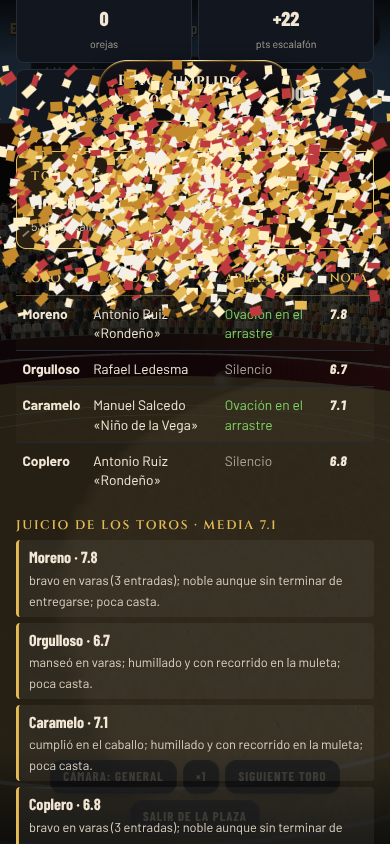
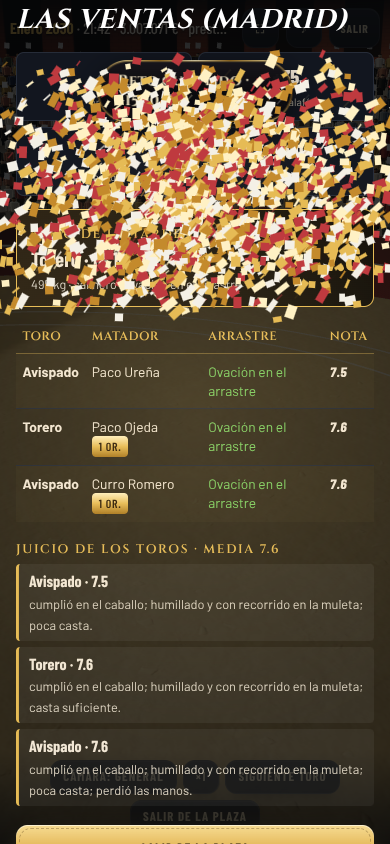
Plaza en directo: estocada animada y corridas distintas
Claude-Session: https://claude.ai/code/session_01UEz6UKm7eRVhhfCF1Qj26a

diff --git a/ruedo.html b/ruedo.html
@@ -258,6 +258,14 @@ const SU={
   handY:p=>.96-.1*smooth(.15,.4,p)},
  pecho:{name:'Pase de pecho',tool:'muleta',single:true,lead:.4,track:[[.6,1.35],[.05,1.1],[-.8,1.3],[-1.7,2.05],[-2.4,3.2],[-2.8,4.6],[-2.9,5.8]],
   handY:p=>.95+.62*smooth(.25,.75,p)}};
+Object.assign(SU,{
+ delantal:{name:'Delantal',tool:'capote',alt:true,remate:'media',lead:.5,track:SU.veronica.track,handY:p=>.98-.12*smooth(.15,.42,p)+.1*smooth(.62,.85,p)},
+ tafallera:{name:'Tafallera',tool:'capote',alt:true,remate:'media',lead:.45,spin:true,track:SU.chicuelina.track,handY:p=>1.24-.1*smooth(.15,.4,p)},
+ revolera:{name:'Revolera',tool:'capote',single:true,lead:.4,gather:true,spin:true,track:SU.media.track,handY:p=>1.15-.1*smooth(.15,.45,p)},
+ manoletina:{name:'Manoletina',tool:'muleta',hand:'R',side:-1,remate:'pecho',lead:.45,track:SU.derechazo.track,handY:p=>1.3+.06*smooth(.2,.6,p)},
+ molinete:{name:'Molinete',tool:'muleta',single:true,lead:.4,spin:true,track:SU.pecho.track,handY:p=>.92+.2*smooth(.25,.75,p)},
+ trincherazo:{name:'Trincherazo',tool:'muleta',single:true,lead:.4,track:SU.pecho.track,handY:p=>.7-.12*smooth(.2,.6,p)},
+ firma:{name:'Pase de la firma',tool:'muleta',single:true,lead:.4,track:SU.pecho.track,handY:p=>.62+.1*smooth(.3,.8,p)}});
 const SUERTE_OPTS=[{id:'faena',name:'Faena completa'},{id:'veronica',name:'Verónicas'},{id:'chicuelina',name:'Chicuelinas'},{id:'media',name:'Media verónica'},{id:'derechazo',name:'Derechazos'},{id:'natural',name:'Naturales'},{id:'pecho',name:'Pase de pecho'}];
 const CAMS=[{id:'cine',name:'Director'},{id:'libre',name:'Libre'},{id:'tendido',name:'Tendido'},{id:'callejon',name:'Callejón'},{id:'raso',name:'Ras de arena'},{id:'torero',name:'Torero'},{id:'toro',name:'Toro'},{id:'cenital',name:'Cenital'}];
 const SPEEDS=[{id:.1,name:'0,1×'},{id:.25,name:'0,25×'},{id:.5,name:'0,5×'},{id:1,name:'1×'},{id:1.5,name:'1,5×'},{id:2,name:'2×'},{id:0,name:'Pausa'},{id:'slow',name:'Lenta en el embroque'}];
@@ -396,7 +404,7 @@ function buildPlaza(){
  lamps=new THREE.Group();const lm=new THREE.MeshBasicMaterial({color:col('#fff6e4')});
  for(let i=0;i<16;i++){const a=i/16*TAU;const b=new THREE.Mesh(new THREE.BoxGeometry(1.4,.5,.2),lm);b.position.set(Math.cos(a)*(r+.6),yg+8.6,Math.sin(a)*(r+.6));b.lookAt(0,0,0);lamps.add(b);}
  lamps.visible=false;scene.add(lamps);
- plaza.rTop=r;
+ plaza.rTop=r;plaza.sand=sandMat;plaza.wood=woodMat;
 }
 const plaza={};
 
@@ -420,7 +428,7 @@ function buildCrowd(){lMsg.textContent='Llenando los tendidos';const r=rng(9);
   const sol=Math.cos(a-SUN_AZ)<0;if(sol&&r()<.28)hats.push(o.matrix.clone());});
  bodies.receiveShadow=heads.receiveShadow=true;scene.add(bodies,heads);
  const hm=new THREE.InstancedMesh(hatG,crowdMat(),hats.length);hats.forEach((m,i)=>{hm.setMatrixAt(i,m);hm.setColorAt(i,c.copy(col(r()<.7?'#d9c48e':'#f2eee4')));});hm.receiveShadow=true;scene.add(hm);
- crowd={bodies,heads,hm};}
+ crowd={bodies,heads,hm,m0:Float32Array.from(bodies.instanceMatrix.array),h0:Float32Array.from(heads.instanceMatrix.array),k0:Float32Array.from(hm.instanceMatrix.array)};}
 
 /* ---------- polvo ---------- */
 function buildDust(){const N=900;const g=new THREE.BufferGeometry();const pos=new Float32Array(N*3),size=new Float32Array(N),alpha=new Float32Array(N);
@@ -629,7 +637,7 @@ function buildTrack(name,sx){const f=new V3(Math.sin(Tyaw),0,Math.cos(Tyaw)),l=n
 function beginPass(){hudSuerte();D.track=buildTrack(D.cur,D.side);D.s=D.s0=D.track.s0;D.phase='pass';D.t=0;D.ole=false;D.minD=9;D.spinDone=false;D.spinning=false;D.spinA=0;D.passStart=simTime;director.onPass();}
 function endPass(){const s=SU[D.cur];const isRem=D.cur===D.serie.rem||s.single;D.passN+=isRem?0:1;
  if(isRem||(!D.serie.rem&&D.passN>=D.serie.n))startPaseo();else{D.phase='turn';D.t=0;D.after='pass';}}
-function nextAfterTurn(){if(D.after==='serie'){if(D.si>=D.prog.length){if(JUEGO.on){finFaena();return;}newCorrida();return;}startSerie(false);return;}
+function nextAfterTurn(){if(D.after==='serie'){if(D.si>=D.prog.length){if(JUEGO.on){suprema();return;}newCorrida();return;}startSerie(false);return;}
  if(D.passN<D.serie.n){if(SU[D.cur].alt)D.side=-D.side;D.cur=D.serie.name;}
  else if(D.serie.rem&&!D.remDone){D.remDone=true;D.cur=D.serie.rem;if(D.cur==='media')D.side=-D.side;else D.side=D.hand==='L'?1:-1;}
  D.phase='cite';D.t=0;D.citeDur=.3+Math.random()*.5;}
@@ -637,7 +645,7 @@ function startPaseo(){const away=T.clone().sub(B).setY(0).normalize().applyAxisA
  if(dest.length()>12)dest=T.clone().addScaledVector(T.clone().negate().setY(0).normalize(),3);D.dest=dest;D.phase='paseo';D.t=0;ole(1);director.onPaseo();}
 function ole(k){k*=JUEGO.on?JUEGO.oleK:1;oleLevel=Math.max(oleLevel,k);audio.ole(k);if(k>.55){const o=document.getElementById('ole');o.textContent=k>.9?'¡Olé!':'¡Bien!';o.classList.add('on');clearTimeout(ole.t);ole.t=setTimeout(()=>o.classList.remove('on'),900);}}
 
-function updateDirector(dt){D.t+=dt;const tYaw=Math.atan2(B.x-T.x,B.z-T.z);
+function updateDirector(dt){D.t+=dt;const tYaw=Math.atan2(B.x-T.x,B.z-T.z);if(D.phase==='suprema'){supremaTick(dt);return;}
  if(D.phase==='cite'){Tyaw+=clamp(angDiff(Tyaw,tYaw),-2*dt,2*dt);bullSpeed=damp(bullSpeed,0,6,dt);if(D.t>=D.citeDur)beginPass();}
  else if(D.phase==='pass'){const tr=D.track,sp=CUR.t;const mzP=trackAt(tr,D.s,new V3());const dl=Math.hypot(mzP.x-T.x,mzP.z-T.z);D.minD=Math.min(D.minD,dl);
   const p=clamp((D.s-D.s0)/(tr.len-D.s0),0,1);const vPass=3.3*sp.temple*CUR.b.tb,vApp=CUR.b.vApp;let target=vPass+(vApp-vPass)*smooth(1.4,4.6,dl);if(p>.55)target=lerp(vPass,5.2,smooth(.55,.78,p));
@@ -668,7 +676,7 @@ function updateBull(dt){const b=bull,sp=bullSpeed;b.root.position.copy(B);b.root
   const ph=g>.4?pg:pw;if(ph<L.last&&sp>.6&&simTime>.1){const fp=L.foot.getWorldPosition(new V3());emitDust(fp,Math.round(1+sp*.5*(1+Math.abs(b.yawRate))),.3+sp*.08);if(g>.4)audio.hoof(fp);}L.last=ph;}
  b.body.position.y=g*.045*Math.sin(b.phG*TAU)*ampG;b.body.rotation.x=g*.05*Math.sin(b.phG*TAU+1.5);b.body.scale.y=1+.008*Math.sin(simTime*3.2);
  // cabeza
- let pt=-.06+.04*Math.sin(simTime*1.7),yt=0;
+ let pt=-.06+.04*Math.sin(simTime*1.7),yt=0;if(D.phase==='suprema')pt=SP.pitch;
  if(D.phase==='pass'){const tr=D.track,p=clamp((D.s-D.s0)/(tr.len-D.s0),0,1);const mz=b.muzzleW,dl=Math.hypot(mz.x-T.x,mz.z-T.z);const hum=p<.62?smooth(3.6,1.4,dl):0;pt=.05+hum*(b.glb?CUR.b.hum*1.1:.42)-gauss(p,.7,.06)*.35;
   const hpw=b.hp.getWorldPosition(new V3());yt=angDiff(Byaw,Math.atan2(D.lureW.x-hpw.x,D.lureW.z-hpw.z));}
  else{const hpw=b.hp.getWorldPosition(new V3());yt=angDiff(Byaw,Math.atan2(T.x-hpw.x,T.z-hpw.z));}
@@ -683,7 +691,7 @@ function updateBull(dt){const b=bull,sp=bullSpeed;b.root.position.copy(B);b.root
 function updateTorero(dt){const t=torero,sp=t.spec,sc=sp.h;const yawE=Tyaw+D.spinA;t.root.position.copy(T);t.root.rotation.y=yawE;
  const f=new V3(Math.sin(yawE),0,Math.cos(yawE)),l=new V3(Math.cos(yawE),0,-Math.sin(yawE));const su=SU[D.cur];let mode='cite',p=0;const lure=new V3();
  if(D.phase==='pass'){p=clamp((D.s-D.s0)/(D.track.len-D.s0),0,1);trackAt(D.track,D.s+su.lead,lure);mode='pass';}
- else if(D.phase==='paseo')mode='paseo';
+ else if(D.phase==='paseo')mode='paseo';else if(D.phase==='suprema')mode='suprema';
  if(mode!=='pass'){lure.copy(T).addScaledVector(f,1.1).addScaledVector(l,.35*D.side*(D.tool==='muleta'?1:.3));}
  D.lureW.copy(lure);
  const dx=lure.x-T.x,dz=lure.z-T.z;let rel=clamp(Math.atan2(dx*l.x+dz*l.z,dx*f.x+dz*f.z),-2.3,2.3);if(mode==='paseo'||D.spinning)rel=0;
@@ -707,9 +715,10 @@ function updateTorero(dt){const t=torero,sp=t.spec,sc=sp.h;const yawE=Tyaw+D.spi
   if(D.spinning){sep=.1;reach=.22;hy2=1.05;dir=f.clone();}
   const c=chest.clone().setY(0).addScaledVector(dir,reach);c.y=hy2*sc;const perp=new V3(-dir.z,0,dir.x);tR.copy(c).addScaledVector(perp,sep);tL.copy(c).addScaledVector(perp,-sep);}
  else{const main=D.hand==='R'?SR:SL,other=D.hand==='R'?SL:SR,out=D.hand==='R'?-1:1;let hy2,reach=.5;
-  if(mode==='pass')hy2=su.handY(p)-sp.low*.5;else if(mode==='paseo'){hy2=.86;reach=.22;dir=f.clone().multiplyScalar(.6).addScaledVector(l,out*.5).normalize();}else hy2=.98;
+  if(mode==='suprema'){hy2=SP.mulY;reach=.42;}else if(mode==='pass')hy2=su.handY(p)-sp.low*.5;else if(mode==='paseo'){hy2=.86;reach=.22;dir=f.clone().multiplyScalar(.6).addScaledVector(l,out*.5).normalize();}else hy2=.98;
   const tm=main.clone().setY(0).addScaledVector(dir,reach);tm.y=hy2*sc;const tf=other.clone().add(new V3(0,-.5*sc,0)).addScaledVector(f,.12).addScaledVector(l,-out*.06);
   if(D.hand==='R'){tR.copy(tm);tL.copy(tf);}else{tL.copy(tm);tR.copy(tf);}
+  if(mode==='suprema'&&SP.arm){const m=morrilloW(new V3());const sh=SR.clone();const dd=m.clone().sub(sh);dd.y=0;dd.normalize();const tgt=sh.clone().addScaledVector(dd,SP.arm*.55*sc).addScaledVector(l,.04);tgt.y=(SP.armY)*sc;tR.copy(tgt);}
   let sd;if(mode==='pass'){const a=trackAt(D.track,D.s+su.lead,new V3()),b2=trackAt(D.track,D.s+su.lead+.3,new V3());const tang=b2.sub(a).setY(0).normalize();sd=dir.clone().multiplyScalar(.55).addScaledVector(tang,.75);sd.y=-.3;}
   else if(mode==='paseo'){sd=f.clone().multiplyScalar(.5);sd.y=-.85;}else{sd=dir.clone().multiplyScalar(.8).addScaledVector(f,.3).addScaledVector(l,out*.2);sd.y=-.25;}
   sd.normalize();t.stickDir.lerp(sd,1-Math.exp(-9*dt)).normalize();}
@@ -810,6 +819,60 @@ function newCorrida(seed){const load=document.getElementById('loading');
  if(firstCorrida)go();else{load.classList.remove('off');setTimeout(go,750);}}
 function seedFromStr(h){let x=7;for(const ch of h)x=(Math.imul(x,31)+ch.charCodeAt(0))>>>0;return x||1;}
 
+
+/* ---------- suerte suprema: perfilarse, entrar a matar, pinchazos, estocada, descabello, avisos y muerte ---------- */
+const SP={on:false,st:'',t:0,pitch:.1,mulY:.98,arm:0,armY:1.45,plan:null,k:0,sw:'mano',swL:null,swQ:null,fall:0,sway:0,aviso:0,kneel:0};
+function morrilloW(o){o.set(0,1.36,.5);return bull.body.localToWorld(o);}
+function bannerSup(txt){const s=document.getElementById('cSu');if(!s)return;s.hidden=false;document.getElementById('cSuN').textContent=txt;document.getElementById('cSuC').textContent='Suerte suprema';}
+function suprema(){const d=JUEGO.t||{};SP.on=true;D.phase='suprema';D.t=0;D.embroque=false;setTool('muleta','L');
+ const ent=Math.max(1,d.ent||1);const plan=[];
+ if(d.res==='indulto')plan.push('indulto');else{for(let i=1;i<ent;i++)plan.push('pinchazo');plan.push(d.esto==='media'?'media':'entera');for(let i=0;i<(d.desc||0);i++)plan.push('descabello');}
+ SP.plan=plan;SP.k=0;SP.fall=0;SP.sway=0;SP.kneel=0;SP.aviso=0;SP.sw='mano';SP.swL=null;sword.visible=d.res!=='indulto';
+ SP.avisoEn=d.avisos?[Math.max(1,plan.length-2),plan.length-1].slice(2-d.avisos):[];
+ cuadrar();if(ui.cam==='cine')cut(pick(['torero','raso','callejon']));}
+function cuadrar(){SP.st='cuadrar';SP.t=0;SP.arm=0;SP.pitch=.05;SP.mulY=.98;const step=SP.plan[SP.k];
+ bannerSup(step==='indulto'?'Simulacro de la suerte':step==='descabello'?'Descabello':SP.k===0?'Se perfila para matar':'Vuelve a perfilarse');
+ if(step!=='descabello'&&step!=='indulto'&&SP.sw!=='mano'){SP.sw='mano';SP.swL=null;}
+ if(SP.avisoEn.includes(SP.k)){SP.aviso++;audio.clarin();const o=document.getElementById('ole');o.textContent=SP.aviso>1?'Segundo aviso':'Primer aviso';o.classList.add('on');setTimeout(()=>o.classList.remove('on'),1600);}}
+function supremaTick(dt){SP.t+=dt;const step=SP.plan[SP.k];const toB=Math.atan2(B.x-T.x,B.z-T.z),toT=Math.atan2(T.x-B.x,T.z-B.z);
+ const turnT=v=>{Tyaw+=clamp(angDiff(Tyaw,toB),-v*dt,v*dt);},turnB=v=>{Byaw+=clamp(angDiff(Byaw,toT),-v*dt,v*dt);};
+ if(SP.st==='cuadrar'){turnB(1.6);turnT(2.2);bullSpeed=damp(bullSpeed,0,5,dt);const dist=Math.hypot(B.x-T.x,B.z-T.z),want=step==='descabello'?2.1:3.3;
+  if(Math.abs(dist-want)>.25){const v=clamp((dist-want)*1.2,-.8,.8);T.x+=Math.sin(Tyaw)*v*dt;T.z+=Math.cos(Tyaw)*v*dt;torero.walkV=Math.abs(v);}else torero.walkV=0;
+  SP.mulY=damp(SP.mulY,step==='descabello'?.55:.62,3,dt);SP.pitch=damp(SP.pitch,step==='descabello'?.55:.32,2,dt);SP.arm=damp(SP.arm,step==='descabello'?.7:.35,3,dt);SP.armY=step==='descabello'?1.35:1.5;
+  if(SP.t>(step==='descabello'?1.6:2.6)){SP.st=step==='descabello'?'descabellar':'entrar';SP.t=0;SP.from=T.clone();const m=morrilloW(new V3());const lv=new V3(Math.cos(Tyaw),0,-Math.sin(Tyaw));SP.to=m.clone().setY(0).addScaledVector(lv,.45);bannerSup(step==='indulto'?'Simula la estocada con la mano':step==='descabello'?'Descabello':'Entra a matar');if(step!=='descabello'&&ui.cam==='cine')cut(pick(['raso','torero','callejon']));}}
+ else if(SP.st==='entrar'){D.embroque=true;const u=clamp(SP.t/.95,0,1),e=u*u*(3-2*u);T.x=lerp(SP.from.x,SP.to.x,e);T.z=lerp(SP.from.z,SP.to.z,e);torero.walkV=2.2;SP.arm=lerp(.35,1,smooth(.2,.75,u));SP.armY=lerp(1.5,1.38,u);SP.mulY=lerp(.62,.45,u);
+  bullSpeed=damp(bullSpeed,1.4,4,dt);B.x+=Math.sin(Byaw)*bullSpeed*dt;B.z+=Math.cos(Byaw)*bullSpeed*dt;SP.pitch=damp(SP.pitch,.6,6,dt);
+  if(u>=.78&&!SP.hit){SP.hit=true;if(step==='pinchazo'){SP.sw='suelo';const m=morrilloW(new V3());SP.swFrom=m;SP.swT=0;ole(.3);}else if(step==='indulto'){ole(1);}else{SP.sw='toro';const inv=bull.body.matrixWorld.clone().invert();SP.swL=new V3(0,1.6,.36);SP.swQ=new THREE.Quaternion().setFromUnitVectors(new V3(0,0,1),new V3(0,-.82,.57).normalize());ole(step==='entera'?1:.7);emitDust(B,6,.6);}}
+  if(u>=1){SP.st='salida';SP.t=0;SP.hit=false;D.embroque=false;SP.arm=0;}}
+ else if(SP.st==='salida'){const lv=new V3(Math.cos(Tyaw),0,-Math.sin(Tyaw));T.addScaledVector(lv,1.3*dt*Math.max(0,1-SP.t/1.2));torero.walkV=1.2*Math.max(0,1-SP.t/1.2);bullSpeed=damp(bullSpeed,0,2.5,dt);B.x+=Math.sin(Byaw)*bullSpeed*dt;B.z+=Math.cos(Byaw)*bullSpeed*dt;SP.pitch=damp(SP.pitch,.15,2,dt);
+  if(SP.t>1.6){torero.walkV=0;if(step==='indulto'){SP.st='indulto';SP.t=0;bannerSup('Indultado');}else if(step==='pinchazo'){SP.k++;cuadrar();}else{const next=SP.plan[SP.k+1];if(next==='descabello'){SP.k++;SP.st='espera';SP.t=0;bannerSup('El toro aguanta en pie');}else{SP.st='muere';SP.t=0;bannerSup(step==='entera'?'Estocada entera':'Media estocada');if(ui.cam==='cine')cut(pick(['raso','tendido','grua']));}}}}
+ else if(SP.st==='espera'){turnB(1);SP.sway=.04*Math.sin(SP.t*3);if(SP.t>2.2)cuadrar();}
+ else if(SP.st==='descabellar'){SP.arm=lerp(.7,.95,smooth(0,.6,SP.t));SP.armY=lerp(1.35,.95,smooth(.3,.7,SP.t));if(SP.t>.8&&!SP.hit){SP.hit=true;emitDust(B,3,.3);}
+  if(SP.t>1.4){SP.hit=false;SP.arm=0;if(SP.k>=SP.plan.length-1){SP.st='muere';SP.t=0;bannerSup('Descabello certero');}else{SP.k++;SP.st='espera';SP.t=0;}}}
+ else if(SP.st==='muere'){bullSpeed=0;SP.sway=.05*Math.sin(SP.t*4)*smooth(0,.6,SP.t);SP.pitch=damp(SP.pitch,.35,1,dt);if(SP.t>1.6)SP.kneel=smooth(1.6,2.5,SP.t);if(SP.t>2.4)SP.fall=smooth(2.4,3.4,SP.t);
+  if(SP.t>2.9&&!SP.dust){SP.dust=true;emitDust(B,26,1.4);ole(JUEGO.t&&JUEGO.t.trof?1:.5);}
+  if(SP.t>5.2){SP.dust=false;SP.on=false;D.phase='fin';finFaena();}}
+ else if(SP.st==='indulto'){const toril=SUN_AZ+Math.PI,dx=Math.cos(toril)*(R-1)-B.x,dz=Math.sin(toril)*(R-1)-B.z;const ty=Math.atan2(dx,dz);Byaw+=clamp(angDiff(Byaw,ty),-1.4*dt,1.4*dt);bullSpeed=damp(bullSpeed,1.6,2,dt);B.x+=Math.sin(Byaw)*bullSpeed*dt;B.z+=Math.cos(Byaw)*bullSpeed*dt;SP.pitch=damp(SP.pitch,0,2,dt);
+  if(SP.t>4.5){SP.on=false;D.phase='fin';finFaena();}}}
+function supremaPost(dt){if(!bull)return;const b=bull;
+ if(D.phase==='suprema'||D.phase==='fin'){b.body.rotation.z=b.roll+SP.sway+SP.fall*1.42;b.body.position.y+=-SP.kneel*.3*(1-SP.fall)+SP.fall*.36;b.body.rotation.x+=SP.kneel*.12;b.root.updateMatrixWorld(true);}
+ if(SP.sw==='toro'&&SP.plan&&SP.plan[SP.k]==='descabello'&&D.phase==='suprema'&&torero){if(!window.__sw2){window.__sw2=sword.clone();scene.add(__sw2);}const g=torero.aR.grip.getWorldPosition(new V3()),hp=bull.hp.getWorldPosition(new V3());__sw2.visible=true;__sw2.position.copy(g);__sw2.quaternion.setFromUnitVectors(new V3(0,0,1),hp.sub(g).normalize());}else if(window.__sw2)__sw2.visible=false;
+ if(!sword.visible)return;
+ if(SP.sw==='toro'&&SP.swL){sword.position.copy(b.body.localToWorld(SP.swL.clone()));const q=new THREE.Quaternion();b.body.getWorldQuaternion(q);sword.quaternion.copy(q.multiply(SP.swQ));}
+ else if(SP.sw==='suelo'){SP.swT=Math.min(1,(SP.swT||0)+dt/0.9);const u=SP.swT;sword.position.set(lerp(SP.swFrom.x,SP.swFrom.x+1.4,u),Math.max(.02,lerp(SP.swFrom.y,0,u)+Math.sin(Math.PI*u)*1.2),lerp(SP.swFrom.z,SP.swFrom.z+.6,u));sword.rotation.set(u*9,u*4,0);if(u>=1)sword.rotation.set(0,1.1,Math.PI/2);}
+ else if(D.phase==='suprema'&&torero){const g=torero.aR.grip.getWorldPosition(new V3()),m=morrilloW(new V3());sword.position.copy(g);sword.quaternion.setFromUnitVectors(new V3(0,0,1),m.sub(g).normalize());}}
+/* ---------- cada corrida distinta: luz, albero, barrera y entrada según la plaza, la fecha y el toro ---------- */
+function hashS(s){let x=7;for(const ch of String(s))x=(Math.imul(x,31)+ch.charCodeAt(0))>>>0;return x||1;}
+function variaPlaza(d){const r=rng(hashS((d.plaza||'')+'|'+(d.cid||'')));
+ const noct=/nocturn/i.test(d.feria||'')||r()<.14;const luz=noct?'noche':(d.i||1)<=2?'tarde':(d.i||1)<=4?(r()<.5?'tarde':'ocaso'):'ocaso';if(ui.luz!==luz)setLight(luz);
+ const pr=rng(hashS(d.plaza||'x'));const sandT=['#ffffff','#ffe6c2','#f3d2a6','#ffd9a8','#e9c9a4'][Math.floor(pr()*5)],woodT=['#ffffff','#ffffff','#d9b8b0','#c7d6c2','#f0d9c0'][Math.floor(pr()*5)];
+ if(plaza.sand)plaza.sand.color.copy(col(sandT));if(plaza.wood)plaza.wood.color.copy(col(woodT));
+ const fill=clamp((d.cat===1?.88:.6)+r()*.14+(d.score>80?.04:0),.45,1);entrada(fill,r);}
+function entrada(fill,r){if(!crowd||!crowd.m0)return;const Z=new THREE.Matrix4().makeScale(0,0,0).elements;
+ for(const [im,src] of [[crowd.bodies,crowd.m0],[crowd.heads,crowd.h0]]){const a=im.instanceMatrix.array;a.set(src);}
+ const n=crowd.bodies.count;for(let i=0;i<n;i++){if(hash2(i,77)<fill)continue;crowd.bodies.instanceMatrix.array.set(Z,i*16);crowd.heads.instanceMatrix.array.set(Z,i*16);}
+ crowd.bodies.instanceMatrix.needsUpdate=crowd.heads.instanceMatrix.needsUpdate=true;}
+
 /* ---------- puente con Hierro y Divisa ----------
    El juego envía cada toro de la corrida ya lidiado en su simulación (bravura, nobleza, casta, fuerza, encaste,
    pelo, peso, matador, traje y el resultado). La faena se compone con esos datos: más series y pases cuanto más
@@ -818,7 +881,7 @@ function seedFromStr(h){let x=7;for(const ch of h)x=(Math.imul(x,31)+ch.charCode
 const JUEGO={on:false,t:null,oleK:1};
 const PELO_CAPA={'negro':'negro','entrepelado':'negro2','burraco':'negro3','berrendo en negro':'negro3','cárdeno':'cardeno','salinero':'cardeno','colorado':'colorado','castaño':'castano','melocotón':'colorado','berrendo en colorado':'colorado','jabonero':'jabonero','albahío':'jabonero','ensabanado':'jabonero'};
 const esc=s=>String(s==null?'':s).replace(/[&<>"]/g,c=>({'&':'&amp;','<':'&lt;','>':'&gt;','"':'&quot;'}[c]));
-function lidiaJuego(d){JUEGO.on=true;JUEGO.t=d;hideRes();newCorrida(d.seed||d.id||1);}
+function lidiaJuego(d){JUEGO.on=true;JUEGO.t=d;hideRes();Object.assign(SP,{on:false,st:'',sw:'mano',swL:null,fall:0,kneel:0,sway:0,hit:false,dust:false});if(window.__sw2)__sw2.visible=false;newCorrida(d.seed||d.id||1);}
 function aplicaJuego(r){const d=JUEGO.t,cl=(x,a,b)=>Math.max(a,Math.min(b,x));const B=d.B||65,N=d.N||65,C=d.C||65,F=d.F||60;
  // torero: el traje del matador del cartel, oro para matadores
  const base=d.traje||CUR.t.base;const light=/^#(?:[ef]|d[89a-f]|c[c-f])/i.test(base);CUR.t.base=base;CUR.t.orn=light&&r()<.3?'jet':'gold';
@@ -826,12 +889,15 @@ function aplicaJuego(r){const d=JUEGO.t,cl=(x,a,b)=>Math.max(a,Math.min(b,x));co
  // toro: pelo, hechuras por peso y encaste, embestida por bravura, fuerza y nobleza
  CUR.b.capa=PELO_CAPA[d.pelo]||'negro';const kg=cl((d.peso||500)-500,-60,120)/1000;CUR.b.sx=1+kg*1.1;CUR.b.sy=1+kg*.6;CUR.b.sz=1+kg*.7;
  CUR.b.vApp=cl(5.2+(B-60)*.06+(F-55)*.03,4.6,9);CUR.b.tb=cl(.8+(N-55)/120,.75,1.2);CUR.b.hum=cl(.22+(N-45)/150,.18,.55);CUR.b.div=d.div;
- // faena: capote según bravura, muleta según nobleza y casta
- const P=[];const nc=d.res==='devuelto'?1:B>72?2:1;for(let i=0;i<nc;i++)P.push([i===0||C<70?'veronica':'chicuelina',cl(Math.round(2+(B-60)/10),2,5),B>62?'media':null]);
+ // faena: capote según bravura, muleta según nobleza y casta; repertorio según el estilo del matador
+ const est=d.estilo||'tecnico',pk=a=>a[Math.floor(r()*a.length)];
+ const CAP={artista:['veronica','delantal','chicuelina'],tecnico:['veronica','delantal'],poderoso:['veronica','chicuelina'],valiente:['veronica','tafallera','chicuelina'],tremendista:['chicuelina','tafallera','veronica']}[est]||['veronica'];
+ const REMC=r()<.65?'media':'revolera',REMM={artista:['pecho','trincherazo','firma'],tecnico:['pecho','pecho','trincherazo'],poderoso:['pecho','trincherazo','molinete'],valiente:['pecho','molinete'],tremendista:['molinete','pecho']}[est]||['pecho'];
+ const P=[];const nc=d.res==='devuelto'?1:B>72?2:1;for(let i=0;i<nc;i++)P.push([i===0?pk(CAP):pk(CAP),cl(Math.round(2+(B-60)/10+r()),2,5),B>62?REMC:null]);
  let nm=d.res==='devuelto'?0:d.rajado||d.fell?1:N>80?4:N>68?3:2;if(d.pases)nm=Math.min(nm,Math.max(1,Math.ceil(d.pases/2)));
- let last=d.estilo==='artista'?'natural':'derechazo';for(let i=0;i<nm;i++){const n=i===0?'derechazo':(last==='derechazo'?'natural':'derechazo');last=n;P.push([n,cl(Math.round(2+(N-55)/9),2,6),N>58?'pecho':null]);}
+ let last=est==='artista'||r()<.35?'natural':'derechazo';for(let i=0;i<nm;i++){let n=i===0?last:(last==='derechazo'?'natural':'derechazo');if(i===nm-1&&nm>2&&(est==='tremendista'||est==='valiente')&&r()<.5)n='manoletina';last=n;P.push([n,cl(Math.round(2+(N-55)/9+r()*1.4),2,6),N>58?pk(REMM):null]);}
  CUR.prog=P;JUEGO.oleK=d.res==='pitos'?.35:d.res==='silencio'?.6:d.res==='ovacion'?.85:1;
- hudCartel();}
+ variaPlaza(d);hudCartel();}
 function hudCartel(){const d=JUEGO.t;if(!d)return;const $=id=>document.getElementById(id);
  $('cEy').textContent=`${d.plaza||''}${d.feria?' · '+d.feria:''} · ${d.i}º de la tarde`;
  $('cTo').innerHTML=`${esc(d.name)}${d.num!=null?` <em>nº ${esc(d.num)}</em>`:''}`;
@@ -872,7 +938,7 @@ let last=performance.now();
 function frame(now){requestAnimationFrame(frame);if(!bull||!torero)return;const dtR=Math.min(.05,(now-last)/1000);last=now;
  const tgt=ui.paused?0:ui.speed*(ui.slow&&D.embroque?.3:1);timeScale=ui.paused?0:damp(timeScale,tgt,5,dtR);const dt=dtR*timeScale;
  if(dt>0){simTime+=dt;updateDirector(dt);}
- updateBull(dt);updateTorero(dt);updateDust(dt);
+ updateBull(dt);updateTorero(dt);supremaPost(dt);updateDust(dt);
  oleLevel=Math.max(0,oleLevel-dt*.45);crowdU.uOle.value=smooth(0,.6,oleLevel);crowdU.uTime.value=simTime;
  for(const fl of flags){const a=fl.m.geometry.attributes.position,b=fl.base;for(let i=0;i<a.count;i++){const x=b[i*3];a.array[i*3+2]=Math.sin(x*4-simTime*6+fl.ph)*.14*x+Math.sin(x*7-simTime*9)*.03*x;}a.needsUpdate=true;fl.m.geometry.computeVertexNormals();}
  const focus=T.clone().lerp(B,.38);sun.position.copy(focus).addScaledVector(sun.userData.dir,110);sun.target.position.copy(focus);
@@ -881,7 +947,7 @@ function frame(now){requestAnimationFrame(frame);if(!bull||!torero)return;const 
  renderer.render(scene,camera);
 
  if(!reduceMotion&&(gTick++%2===0)){const d=gimg.data;for(let i=0;i<d.length;i+=4){const v=Math.random()*255;d[i]=d[i+1]=d[i+2]=v;d[i+3]=255;}gctx.putImageData(gimg,0,0);}}
-window.__ruedo={D,ui,setCam,fin:()=>finFaena(),get t(){return simTime;}};
+window.__ruedo={D,ui,setCam,fin:()=>finFaena(),sup:()=>suprema(),SP,get t(){return simTime;}};
 })();
 </script>
 

diff --git a/sw.js b/sw.js
@@ -1,5 +1,5 @@
 // Caché para jugar sin conexión una vez cargado
-const V='hierro-divisa-v42';
+const V='hierro-divisa-v43';
 const ARCHIVOS=['./', 'index.html', 'ruedo.html', 'js/ruedo.js', 'js/libs/OrbitControls.js', 'js/libs/Sky.js', 'modelos/toro-ruedo.glb', 'css/estilo.css', 'css/moderno.css', 'css/fuentes.css', 'fonts/barlow-condensed-latin-500-normal.woff2', 'fonts/barlow-condensed-latin-600-italic.woff2', 'fonts/barlow-condensed-latin-600-normal.woff2', 'fonts/barlow-condensed-latin-700-italic.woff2', 'fonts/barlow-condensed-latin-700-normal.woff2', 'fonts/barlow-condensed-latin-800-italic.woff2', 'fonts/barlow-condensed-latin-800-normal.woff2', 'fonts/barlow-latin-400-normal.woff2', 'fonts/barlow-latin-500-normal.woff2', 'fonts/barlow-latin-600-normal.woff2', 'fonts/barlow-latin-700-normal.woff2', 'fonts/cinzel-latin-600-normal.woff2', 'fonts/cinzel-latin-700-normal.woff2', 'js/juego.js', 'js/mundo3d.js', 'js/carrera.js', 'js/musica.js', 'js/sonido.js', 'js/corro.js', 'js/calle.js', 'js/calle2.js', 'js/calle3.js', 'js/localidades.js', 'js/gfx.js', 'js/extras.js', 'js/divisas.js', 'js/casa.js', 'js/finca2.js', 'js/lidia.js', 'js/fx.js', 'js/menu.js', 'js/modelos.js', 'js/toros3d.js', 'js/toro3.js', 'js/torero3d.js', 'js/torero.js', 'js/estabilidad.js', 'js/panel.js', 'js/clima.js', 'js/finca3.js', 'js/finca4.js', 'js/jinetes.js', 'js/genetica.js', 'js/economia.js', 'js/rendimiento.js', 'js/uipro.js', 'js/pulido.js', 'js/navbar.js', 'js/calendario.js', 'js/texturas.js', 'modelos/natura.gltf.json', 'img/nav-toro.png', 'img/nav/c_con.png', 'img/nav/c_ini.png', 'img/nav/c_inv.png', 'img/nav/c_mer.png', 'img/nav/c_res.png', 'img/nav/camada.png', 'img/nav/drapeL.png', 'img/nav/drapeR.png', 'img/nav/finca.png', 'img/nav/inicio.png', 'img/nav/mercado.png', 'img/nav/ofertas.png', 'img/nav/palmares.png', 'img/nav/tareas.png', 'img/tex/albero.jpg', 'img/tex/asfalto-n.jpg', 'img/tex/asfalto.jpg', 'img/tex/detalle.jpg', 'img/tex/tierra-n.jpg', 'js/libs/three.min.js', 'js/libs/GLTFLoader.js', 'js/libs/SkeletonUtils.js', 'js/libs/BufferGeometryUtils.js', 'modelos/persona.glb', 'modelos/caballo.glb', 'modelos/persona2.gltf.json', 'modelos/toro.glb', 'modelos/toro-tripo.glb', 'modelos/toro-tripo-lo.glb', 'modelos/vaca.glb', 'manifest.webmanifest', 'img/cabeza.jpg', 'img/calle.jpg', 'img/calle-nit.jpg', 'img/cuerno.jpg', 'img/dehesa.jpg', 'img/hero.jpg', 'img/icono-192.png', 'img/icono-512.png', 'img/palco.jpg', 'img/plaza-1.jpg', 'img/plaza-2.jpg', 'img/toro-cardeno-0.jpg', 'img/toro-cardeno-1.jpg', 'img/toro-cardeno-2.jpg', 'img/toro-cardeno-3.jpg', 'img/toro-cardeno-4.jpg', 'img/toro-cardeno-5.jpg', 'img/toro-cardeno-6.jpg', 'img/toro-cardeno-7.jpg', 'img/toro-castano-0.jpg', 'img/toro-castano-1.jpg', 'img/toro-castano-2.jpg', 'img/toro-castano-3.jpg', 'img/toro-castano-4.jpg', 'img/toro-castano-5.jpg', 'img/toro-castano-6.jpg', 'img/toro-castano-7.jpg', 'img/toro-colorado-0.jpg', 'img/toro-colorado-1.jpg', 'img/toro-colorado-2.jpg', 'img/toro-colorado-3.jpg', 'img/toro-colorado-4.jpg', 'img/toro-colorado-5.jpg', 'img/toro-colorado-6.jpg', 'img/toro-colorado-7.jpg', 'img/toro-jabonero-0.jpg', 'img/toro-jabonero-1.jpg', 'img/toro-jabonero-2.jpg', 'img/toro-jabonero-3.jpg', 'img/toro-jabonero-4.jpg', 'img/toro-jabonero-5.jpg', 'img/toro-jabonero-6.jpg', 'img/toro-jabonero-7.jpg', 'img/toro-negro-0.jpg', 'img/toro-negro-1.jpg', 'img/toro-negro-2.jpg', 'img/toro-negro-3.jpg', 'img/toro-negro-4.jpg', 'img/toro-negro-5.jpg', 'img/toro-negro-6.jpg', 'img/toro-negro-7.jpg', 'img/toro-sombra.jpg'];
 self.addEventListener('install',e=>{e.waitUntil(caches.open(V).then(c=>c.addAll(ARCHIVOS)).then(()=>self.skipWaiting()))});
 self.addEventListener('activate',e=>{e.waitUntil(caches.keys().then(k=>Promise.all(k.filter(x=>x!==V).map(x=>caches.delete(x)))).then(()=>self.clients.claim()))});

diff --git a/js/ruedo.js b/js/ruedo.js
@@ -6,7 +6,7 @@
    "Vista clásica" vuelve a la plaza 3D de siempre. */
 const RD={on:false,r:null,i:0,el:null,fr:null};
 function ruedoDatos(r,i){const t=r.toros[i];if(!t)return null;
- return {id:r.id*10+i,seed:r.id*97+i*13+7,i:i+1,ultimo:i>=r.toros.length-1,plaza:r.plaza,feria:r.feria,gan:S.g.name,div:t.div||S.g.div,
+ return {id:r.id*10+i,cid:r.id,cat:r.cat,seed:r.id*97+i*13+7,i:i+1,ultimo:i>=r.toros.length-1,plaza:r.plaza,feria:r.feria,gan:S.g.name,div:t.div||S.g.div,
   name:t.name,num:t.num,peso:t.peso,pelo:t.pelo,enc:t.enc,mat:t.mat,traje:t.traje,estilo:t.estilo,B:t.B,N:t.N,C:t.C,F:t.F,score:t.score,
   res:t.res,trof:t.trof||0,ent:t.ent,esto:t.esto,desc:t.desc,avisos:t.avisos,rajado:!!t.rajado,fell:!!t.fell,pases:t.pases,
   cogida:t.cogida?{parte:t.cogida.parte}:null,sust:t.sust?{n:t.sust.n}:null}}

diff --git a/CHANGELOG.md b/CHANGELOG.md
@@ -72,3 +72,7 @@ Calendario por semanas al estilo FIFA, barra de gala y pantallas a juego, sonido
 
 ## Corrida en directo realista
 - Ver en directo abre la plaza realista. La faena se compone con la bravura, nobleza, casta, fuerza, encaste y pelo del toro y el estilo del matador; la presidencia saca los pañuelos según el resultado del juego (orejas, vuelta, indulto, silencio, pitos, devuelto). Botón “Vista clásica” para la plaza de antes.
+
+## Estocada y corridas distintas
+- Suerte suprema animada: perfilarse, entrar a matar, pinchazos, media o entera, descabellos, avisos con clarín, toro que se amorcilla y cae; indulto con simulacro y vuelta a toriles.
+- Cada corrida distinta: luz (tarde, ocaso, noche) según orden y feria, albero y barrera por plaza, entrada de público según categoría, repertorio por estilo del matador (delantal, tafallera, revolera, manoletina, molinete, trincherazo, firma).
